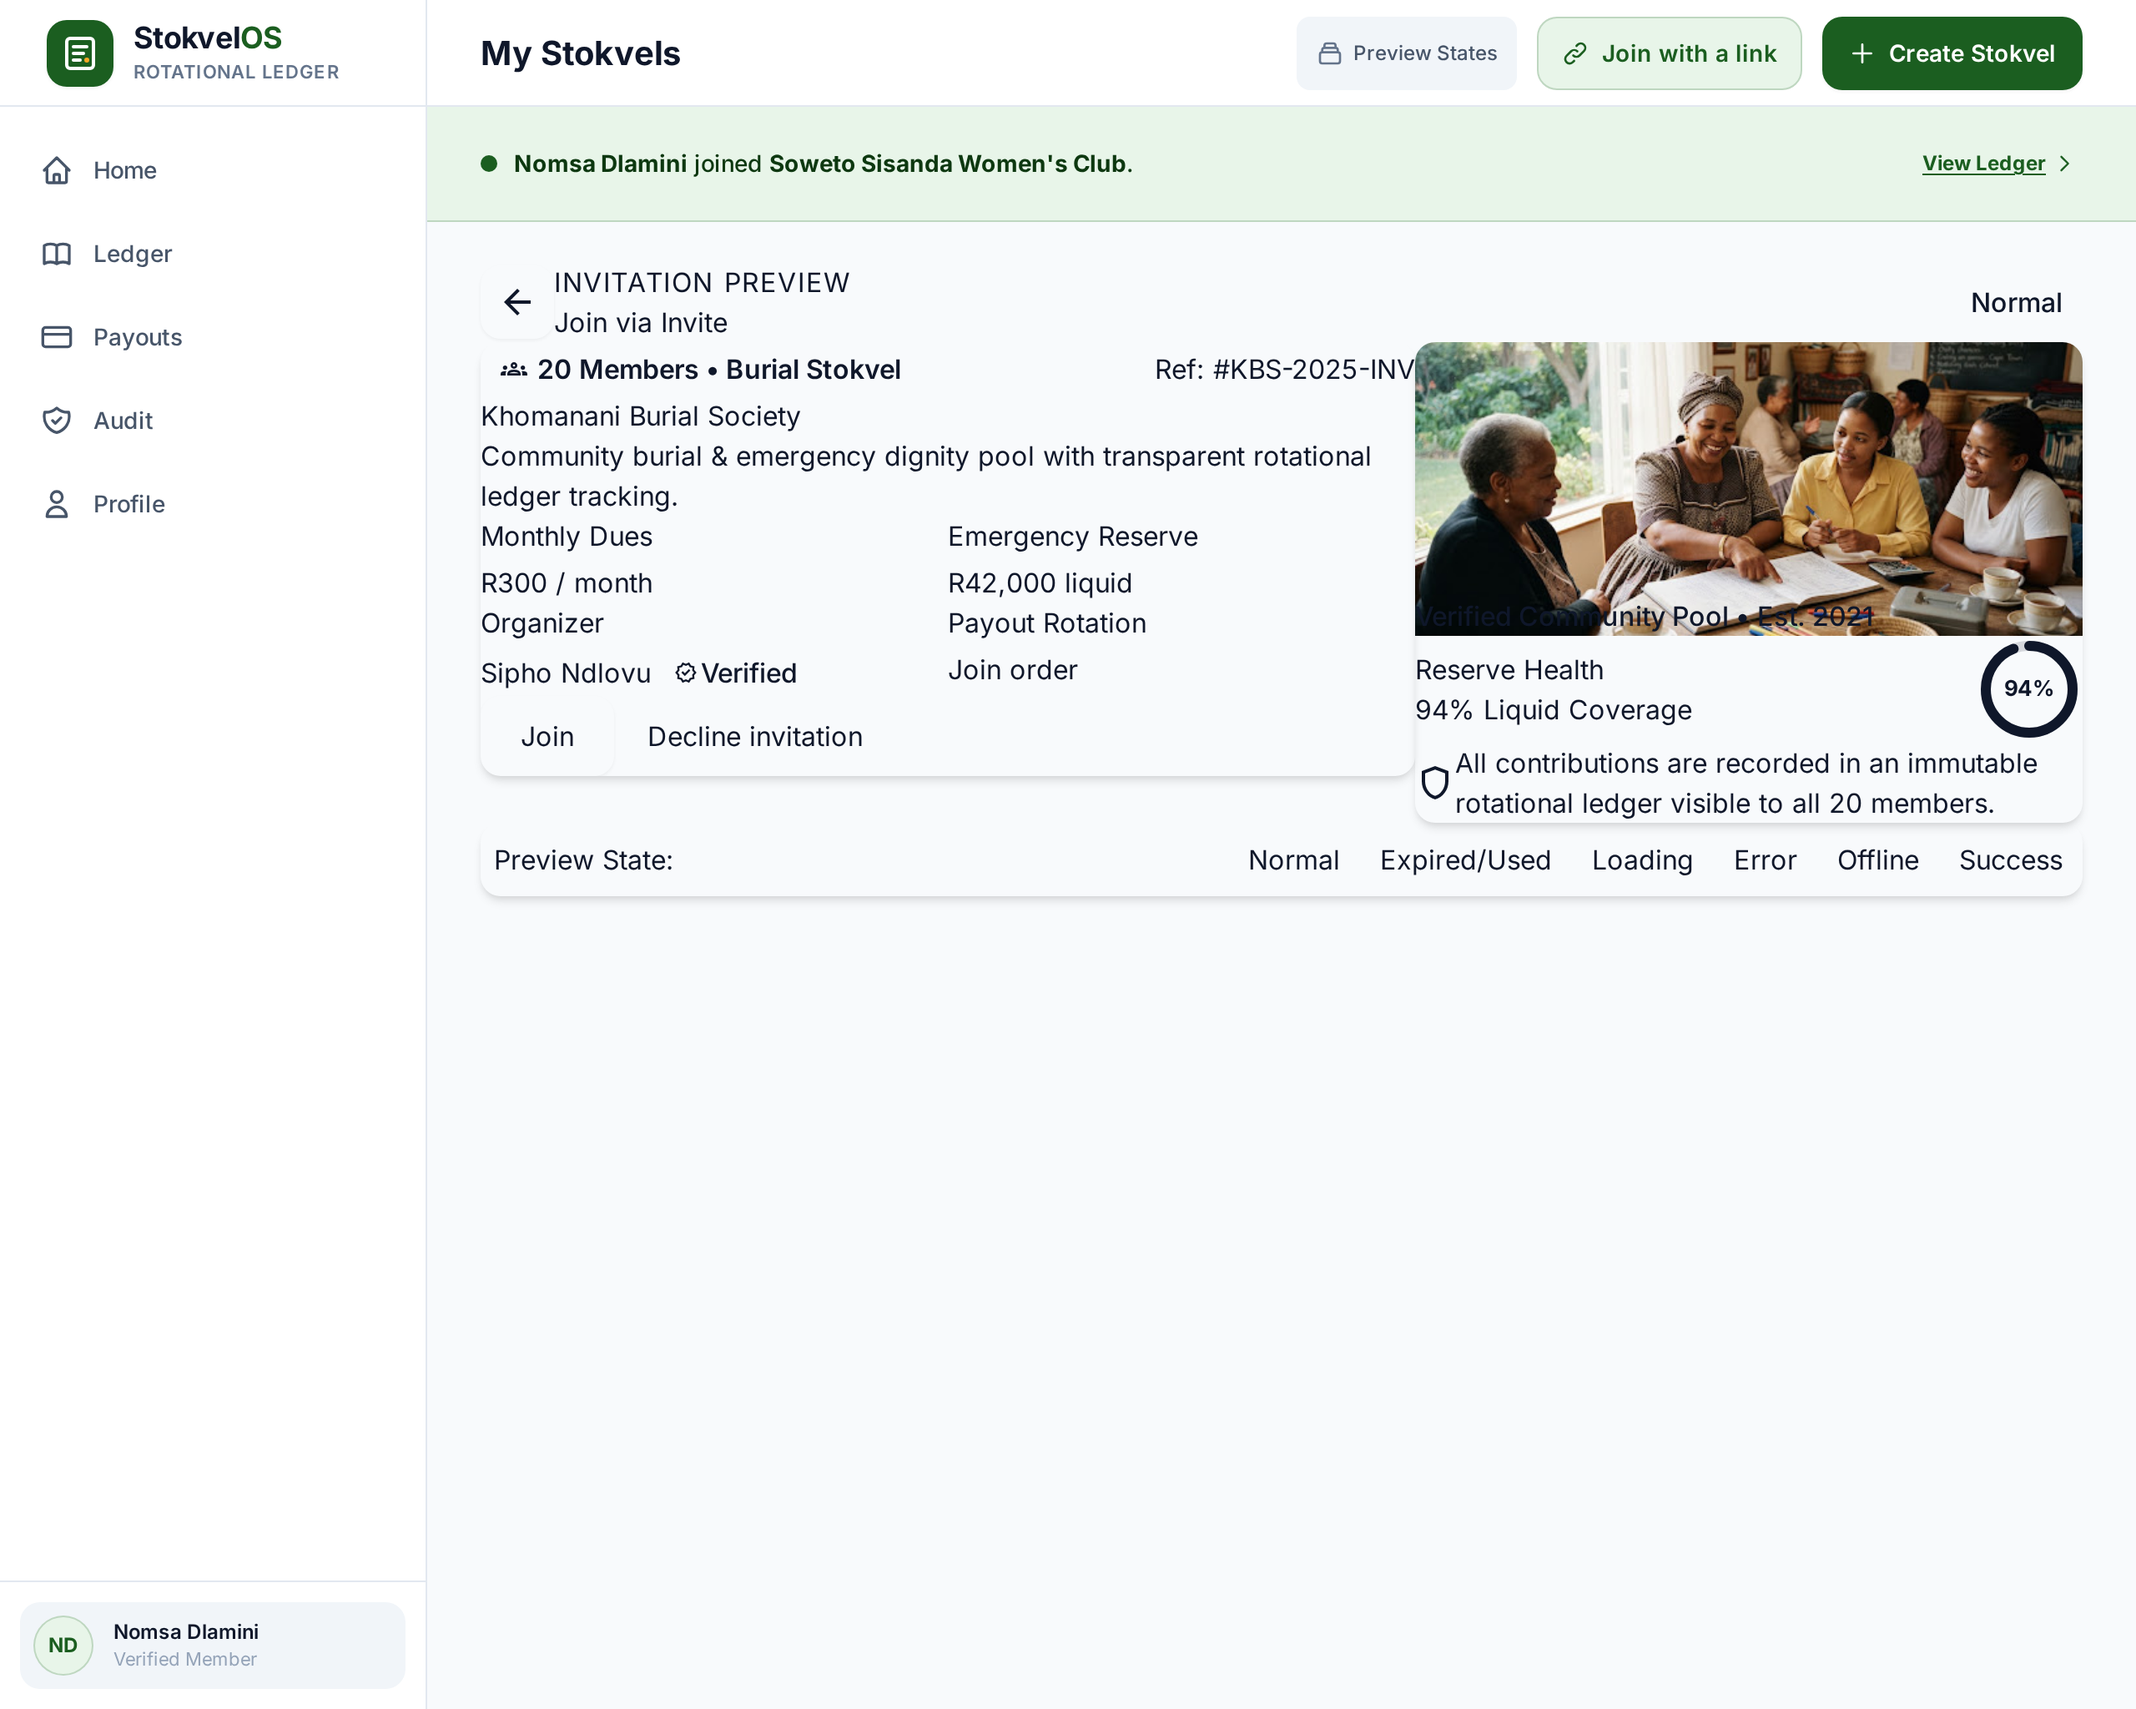
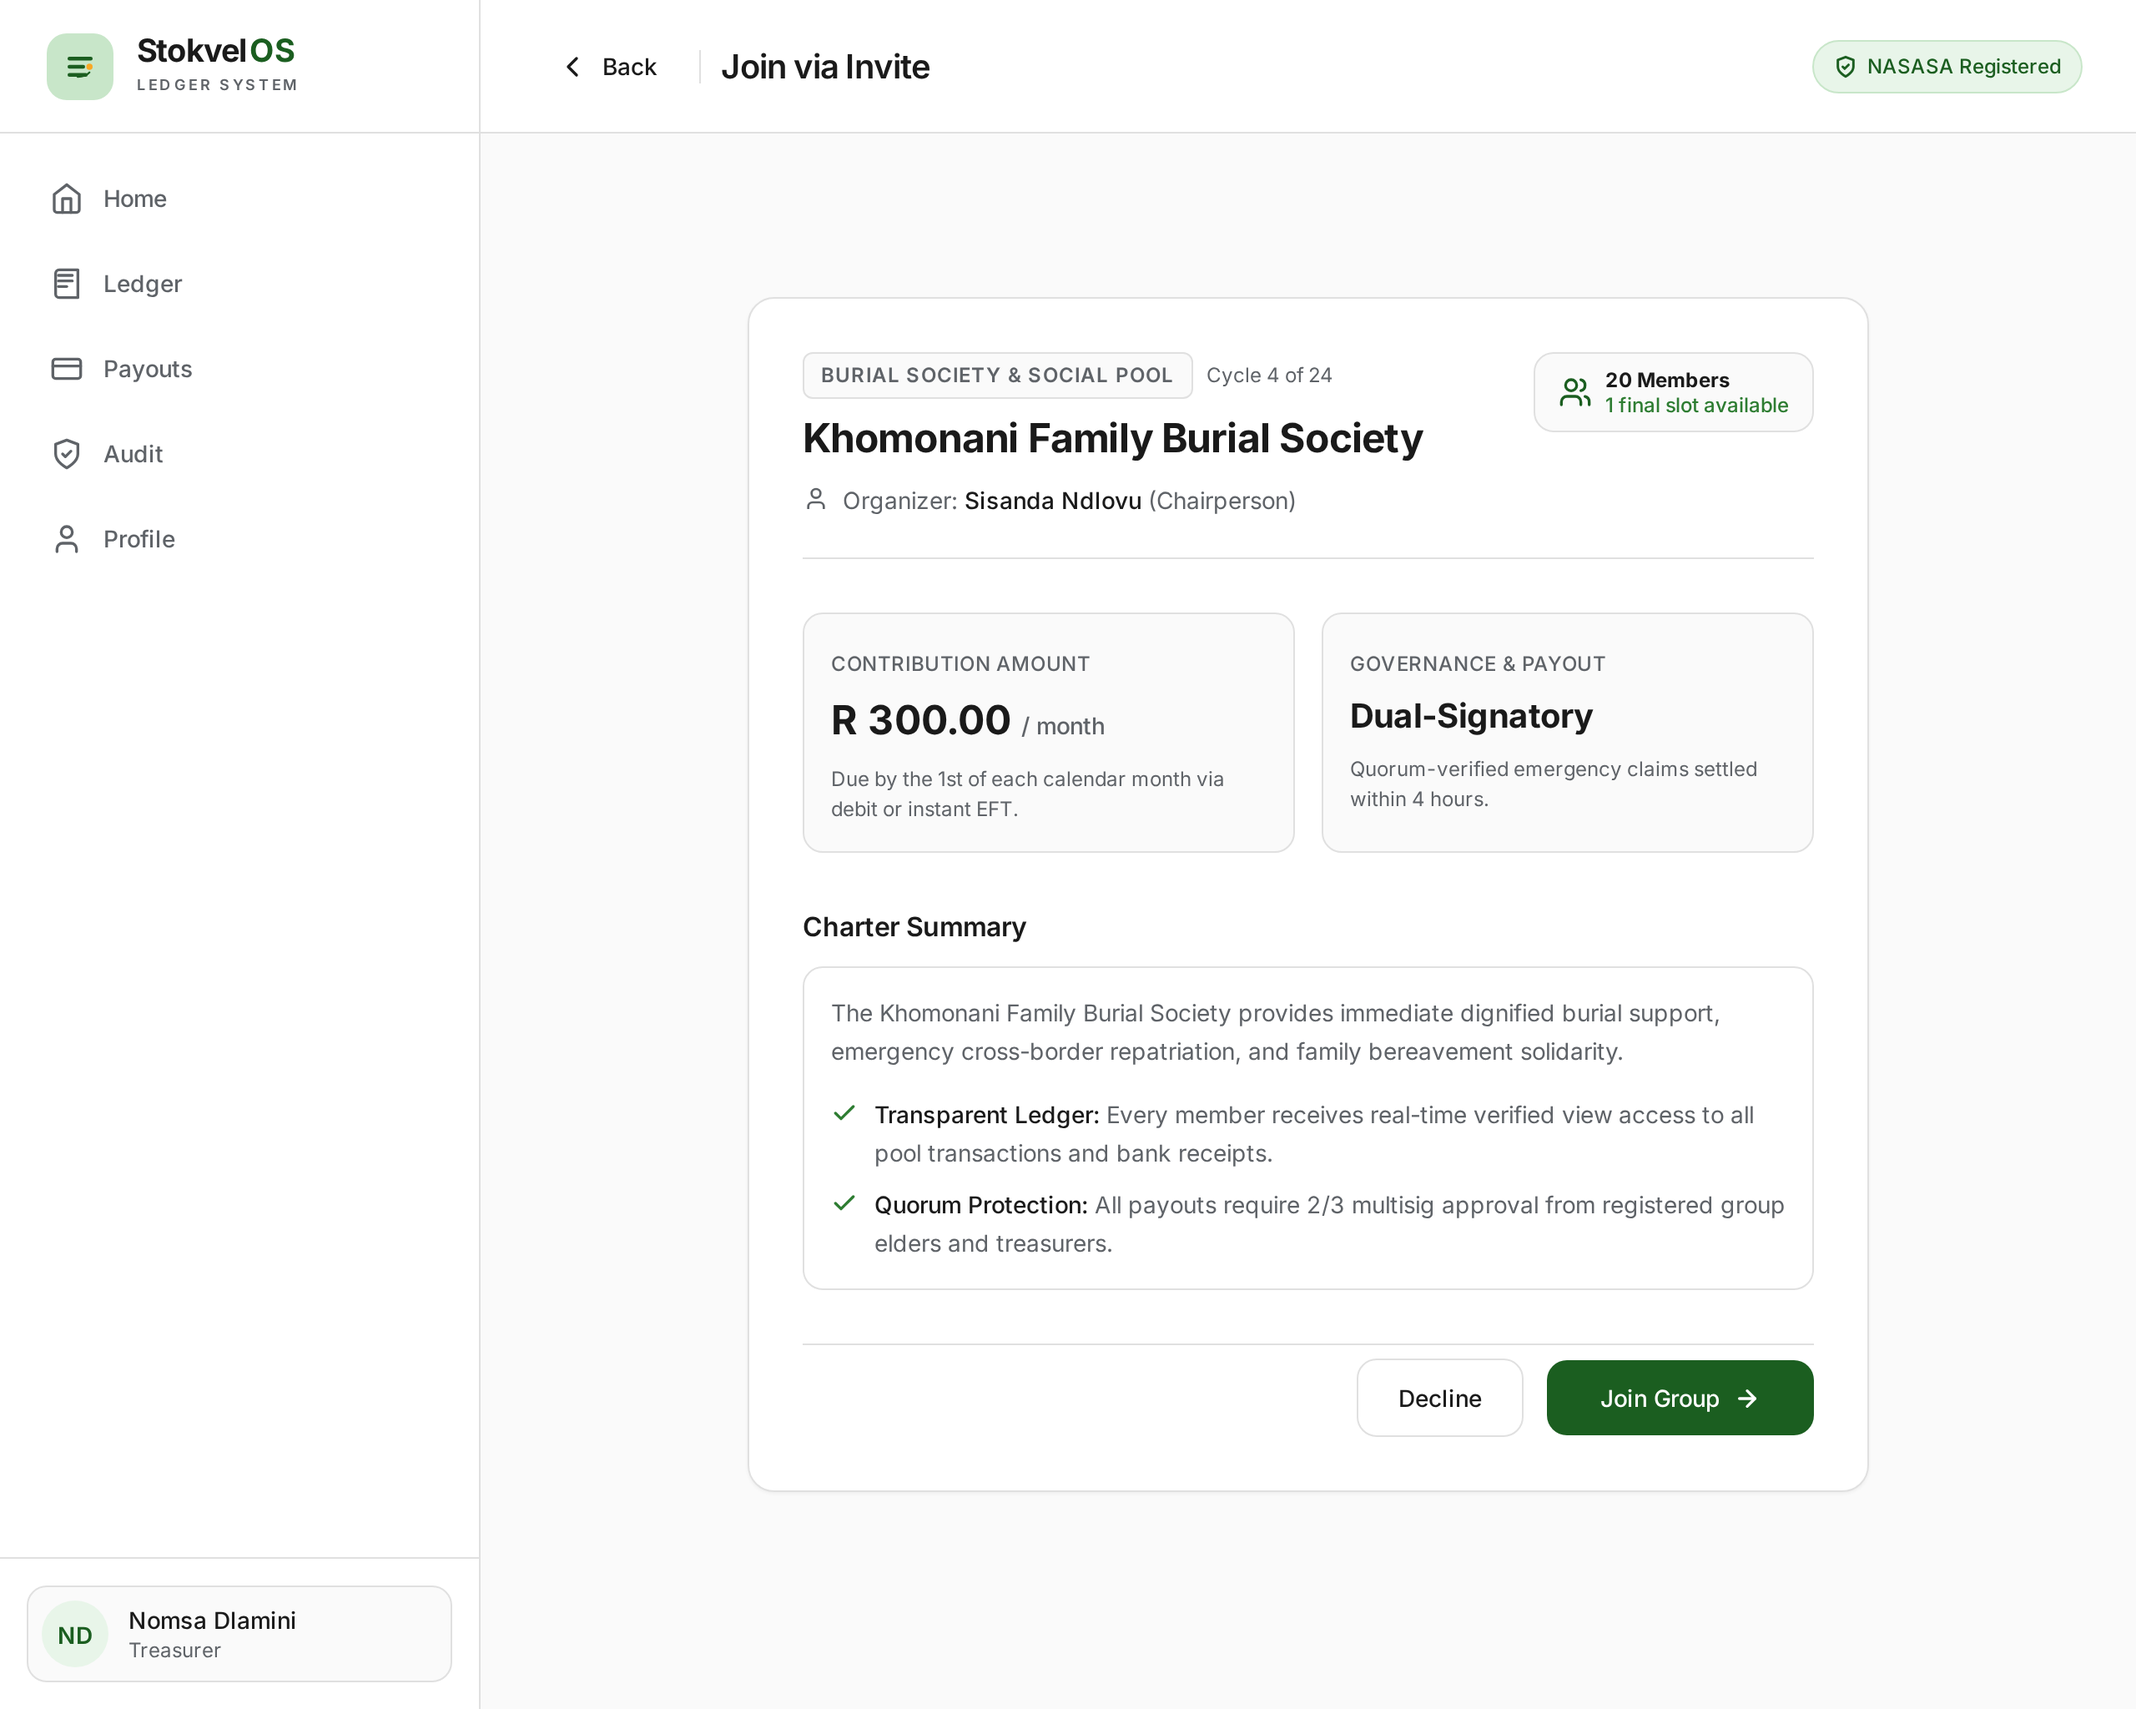
fix(design): re-render S5 and S6 without debug harness
Replaces the Create Stokvel and Join via Invite exports whose Stitch renders included preview-state toggles, stage markers and simulation text. Both are now clean single-state desktop screens; update the S5 canvas dimension in the export table.

diff --git a/docs/designs/README.md b/docs/designs/README.md
@@ -14,7 +14,7 @@ Re-exported 2026-11-25 from the 20 final Stitch screens at full desktop canvas w
 | `S2.png` | Sign Up | 2560 × 2114 |
 | `S3.png` | Log In | 2560 × 2048 |
 | `S4.png` | My Stokvels | 2560 × 2048 |
-| `S5.png` | Create Stokvel | 2560 × 2048 |
+| `S5.png` | Create Stokvel | 2560 × 2782 |
 | `S6.png` | Join via Invite | 2560 × 2048 |
 | `S7.png` | Stokvel Home | 2560 × 2422 |
 | `S8.png` | Contributions Ledger | 2560 × 2578 |
